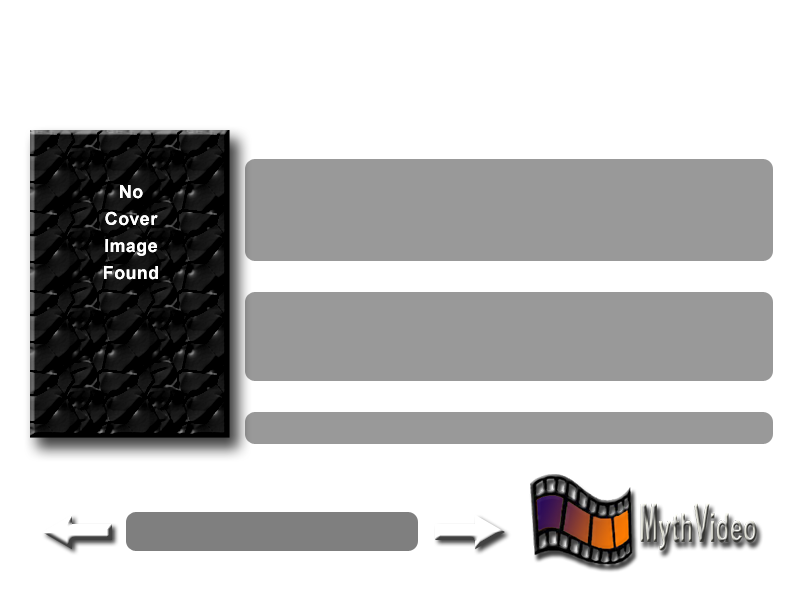
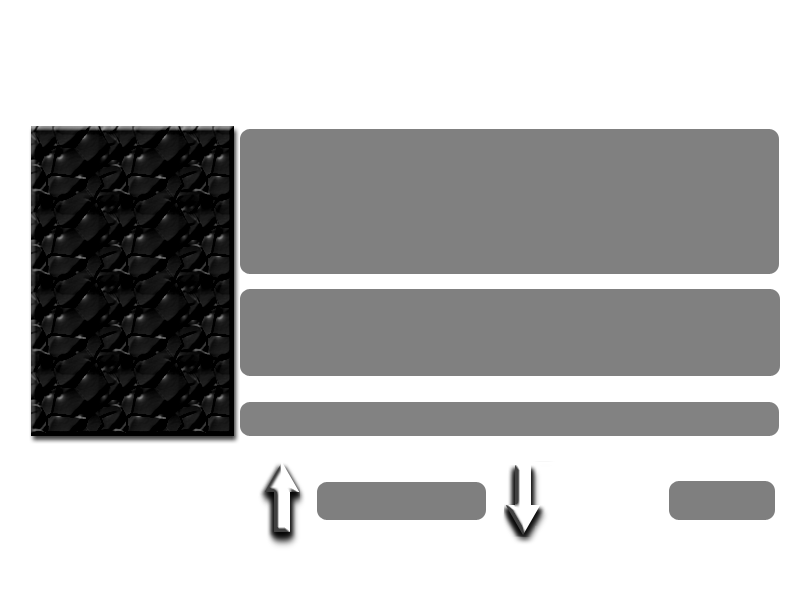
Minor UI tweaks: 	Two lines are now allowed for he title and it is aligned using "hcenter". 	The "plot" section has been expanded to allow for longer descriptions. 	A background has been added for the parental level similar to the existing ones. 	Labels for "plot" and "rating" have been removed sinc
Navigation is now done with the Up/Down arrow keys and Page Up/Down.

Changing the parental level is now done via the INCPARENTAL and DECPARENTAL keys (the same ones from the video manager).  These keys default to left/right arrow keys.  If the INC/DEC keys are remapped to something else, the left/right arrow keys will function much like they do in the playback box and video manager.

Added a popup menu accessable via "MENU".

Fixed the display of special characters in the title, director and descrption fields.  However:  There appears to be an issue with the imdb.pl script in that doesn't seem to decode these characters properly.

Screenshots are available at:

http://www.jdonavan.net/myth/screens/new_vid_ui1.jpg
http://www.jdonavan.net/myth/screens/new_vid_ui2.jpg

git-svn-id: http://svn.mythtv.org/svn/trunk@3655 7dbf422c-18fa-0310-86e9-fd20926502f2

diff --git a/mythplugins/mythvideo/mythvideo/videobrowser.cpp b/mythplugins/mythvideo/mythvideo/videobrowser.cpp
@@ -30,6 +30,9 @@ VideoBrowser::VideoBrowser(QSqlDatabase *ldb,
     currentVideoFilter = new VideoFilterSettings(db);
     RefreshMovieList();
 
+    popup = NULL;
+    expectingPopup = false;
+
     noUpdate = false;
     m_state = 0;
 
@@ -57,7 +60,7 @@ VideoBrowser::VideoBrowser(QSqlDatabase *ldb,
 VideoBrowser::~VideoBrowser()
 {
     if (currentVideoFilter)
-	delete currentVideoFilter;
+        delete currentVideoFilter;
     delete theme;
     delete bgTransBackup;
     if (curitem)
@@ -175,57 +178,129 @@ void VideoBrowser::keyPressEvent(QKeyEvent *e)
         QString action = actions[i];
         handled = true;
 
-        if (action == "SELECT" && allowselect)
-        {
+        if ((action == "SELECT" || action == "PLAY") && allowselect)
             selected(curitem);
-            return;
-        }
+        else if (action == "MENU")
+            doMenu();
         else if (action == "UP")
-            cursorUp();
+            jumpSelection(1);
         else if (action == "DOWN")
-            cursorDown();
+            jumpSelection(-1);
+        else if (action == "PAGEDOWN")
+            jumpSelection(0-(int)(m_list.count() / 5));
+        else if (action == "PAGEUP")
+            jumpSelection((int)(m_list.count() / 5));
+        else if (action == "INCPARENT")
+            doParental(1);
+        else if (action == "DECPARENT")
+            doParental(-1);            
         else if (action == "LEFT")
             cursorLeft();
         else if (action == "RIGHT")
             cursorRight();
-        else if (action == "1" || action == "2" || action == "3" ||
-                 action == "4")
-        {
+        else if (action == "1" || action == "2" || action == "3" || action == "4")
             setParentalLevel(action.toInt());
-        }
-	else if (action == "FILTER"){
-		VideoFilterDialog * vfd = new VideoFilterDialog(db,
-			currentVideoFilter,
-			gContext->GetMainWindow(),
-			"filter",
-			"video-",
-			"Video Filter Dialog");
-		vfd->exec();
-		delete vfd;
-		RefreshMovieList();
-		SetCurrentItem();
-		repaint();
-	}else if (action == "INFO"){
-		if (curitem){
-			MythPopupBox * plotbox
-			   = new MythPopupBox(gContext->GetMainWindow());
-			QLabel *plotLabel = plotbox->addLabel(curitem->Plot(),MythPopupBox::Small,true);
-			plotLabel->setAlignment(Qt::AlignJustify | Qt::WordBreak);
-			QButton * okButton = plotbox->addButton(tr("Ok"));
-			okButton->setFocus();
-			plotbox->ExecPopup();
-		//	plotbox->showOkPopup(gContext->GetMainWindow(),
-//				"test",
-//				curitem->Plot());
-			delete plotbox;
-		}
-	}
+        else if (action == "FILTER")
+            slotDoFilter();
+        else if (action == "INFO")
+            slotViewPlot();
         else
             handled = false;
     }
 
     if (!handled)
         MythDialog::keyPressEvent(e);
+}
+
+void VideoBrowser::doMenu()
+{
+    popup = new MythPopupBox(gContext->GetMainWindow(), "video popup");
+
+    expectingPopup = true;
+
+    popup->addLabel(tr("Select action"));
+    popup->addLabel("");
+
+    QButton *viewButton = popup->addButton(tr("Watch This Video"), this, SLOT(slotWatchVideo())); 
+
+    popup->addButton(tr("View Full Plot"), this, SLOT(slotViewPlot()));
+    popup->addButton(tr("Filter Display"), this, SLOT(slotDoFilter()));
+    popup->addButton(tr("Switch to Video Listings"), this, SLOT(slotVideoTree()));    
+
+    popup->ShowPopup(this, SLOT(slotDoCancel()));
+
+    viewButton->setFocus();
+
+}
+
+void VideoBrowser::slotVideoTree()
+{
+    cancelPopup();
+    gContext->GetMainWindow()->JumpTo("Video Listings");
+}
+
+void VideoBrowser::slotWatchVideo()
+{
+    cancelPopup();
+    selected(curitem);
+}
+
+void VideoBrowser::slotViewPlot()
+{
+    cancelPopup();
+    
+    if (curitem)
+    {
+        MythPopupBox * plotbox = new MythPopupBox(gContext->GetMainWindow());
+        QLabel *plotLabel = plotbox->addLabel(curitem->Plot(),MythPopupBox::Small,true);
+        plotLabel->setAlignment(Qt::AlignJustify | Qt::WordBreak);
+        QButton * okButton = plotbox->addButton(tr("Ok"));
+        okButton->setFocus();
+        plotbox->ExecPopup();
+        delete plotbox;
+    }
+}
+
+void VideoBrowser::slotDoFilter()
+{
+    cancelPopup();
+    VideoFilterDialog * vfd = new VideoFilterDialog(db, currentVideoFilter,
+                                                    gContext->GetMainWindow(),
+                                                    "filter", "video-",
+                                                    "Video Filter Dialog");
+    vfd->exec();
+    delete vfd;
+
+    RefreshMovieList();
+    SetCurrentItem();
+    repaint();
+
+}
+
+
+void VideoBrowser::slotDoCancel(void)
+{
+    if (!expectingPopup)
+        return;
+
+    cancelPopup();
+}
+
+void VideoBrowser::cancelPopup(void)
+{
+    expectingPopup = false;
+
+    if(popup)
+    {
+        popup->hide();
+        delete popup;
+
+        popup = NULL;
+
+        update(fullRect);
+        qApp->processEvents();
+        setActiveWindow();
+    }
 }
 
 void VideoBrowser::updateBackground(void)
@@ -253,10 +328,10 @@ void VideoBrowser::RefreshMovieList()
     m_list.clear();
 
     QString thequery = QString("SELECT intid, browse FROM %1 %2 %3")
-		.arg(currentVideoFilter->BuildClauseFrom())
-		.arg(currentVideoFilter->BuildClauseWhere())
-		.arg(currentVideoFilter->BuildClauseOrderBy());
-//cout << thequery << endl;
+                        .arg(currentVideoFilter->BuildClauseFrom())
+                        .arg(currentVideoFilter->BuildClauseWhere())
+                        .arg(currentVideoFilter->BuildClauseOrderBy());
+
     QSqlQuery query(thequery,db);
     Metadata *myData;
 
@@ -498,7 +573,7 @@ void VideoBrowser::updateInfo(QPainter *p)
        {
            UITextType *type = (UITextType *)container->GetType("title");
            if (type)
-               type->SetText(title);
+               type->SetText(QString::fromUtf8(title));
 
            type = (UITextType *)container->GetType("filename");
            if (type)
@@ -506,7 +581,7 @@ void VideoBrowser::updateInfo(QPainter *p)
 
            type = (UITextType *)container->GetType("director");
            if (type)
-               type->SetText(director);
+               type->SetText(QString::fromUtf8(director));
  
            type = (UITextType *)container->GetType("year");
            if (type)
@@ -529,7 +604,7 @@ void VideoBrowser::updateInfo(QPainter *p)
 
            type = (UITextType *)container->GetType("plot");
            if (type)
-               type->SetText(plot);
+               type->SetText(QString::fromUtf8(plot));
  
            type = (UITextType *)container->GetType("userrating");
            if (type)
@@ -597,8 +672,12 @@ void VideoBrowser::LoadWindow(QDomElement &element)
             }
             else
             {
+                MythPopupBox::showOkPopup(gContext->GetMainWindow(), "",
+                                          tr(QString("There is a problem with your"
+                                          "music-ui.xml file... Unknown element: %1").
+                                          arg(e.tagName())));
+                
                 cerr << "Unknown element: " << e.tagName() << endl;
-                exit(0);
             }
         }
     }
@@ -616,7 +695,21 @@ void VideoBrowser::parseContainer(QDomElement &element)
     if (name.lower() == "browsing")
         browsingRect = area;
 }
- 
+
+void VideoBrowser::jumpSelection(int amount)
+{
+    inData += amount;
+     
+    if (inData < 0)
+        inData = m_list.count() - abs(1 - inData);
+    else if(inData >= (int)m_list.count())
+        inData = inData - m_list.count();
+     
+    SetCurrentItem();
+    update(infoRect);
+    update(browsingRect);
+}
+   
 void VideoBrowser::exitWin()
 {
     emit accept();
@@ -624,42 +717,23 @@ void VideoBrowser::exitWin()
 
 void VideoBrowser::cursorLeft()
 {
-     inData--;
-     if (inData < 0)
-         inData = m_list.count() - 1;
-     SetCurrentItem();
-     update(infoRect);
-     update(browsingRect);
+    exitWin();
 }
 
 void VideoBrowser::cursorRight()
 {
-     inData++;
-     if (inData >= (int)m_list.count())
-         inData = 0;
-     SetCurrentItem();
-     update(infoRect);
-     update(browsingRect);
+    doMenu();
 }
 
-void VideoBrowser::cursorUp()
+void VideoBrowser::doParental(int amount)
 {
-    setParentalLevel(currentParentalLevel + 1);
+    setParentalLevel(currentParentalLevel + amount);
     inData = 0;
     RefreshMovieList();
     SetCurrentItem();
     update(infoRect);
     update(browsingRect);
-}
 
-void VideoBrowser::cursorDown()
-{
-    setParentalLevel(currentParentalLevel - 1);
-    inData = 0;
-    RefreshMovieList();
-    SetCurrentItem();
-    update(infoRect);
-    update(browsingRect);
 }
 
 void VideoBrowser::selected(Metadata *someItem)

diff --git a/mythplugins/mythvideo/mythvideo/videobrowser.h b/mythplugins/mythvideo/mythvideo/videobrowser.h
@@ -30,17 +30,24 @@ class VideoBrowser : public MythDialog
     void selected(Metadata *someItem);
     void cursorLeft();
     void cursorRight();
-    void cursorDown();
-    void cursorUp();
     void exitWin();
     void setParentalLevel(int which_level);
     bool checkParentPassword();
 
+    void slotWatchVideo();
+    void slotViewPlot();
+    void slotDoFilter();
+    void slotDoCancel();
+    void slotVideoTree();
+
   protected:
     void paintEvent(QPaintEvent *);
     void keyPressEvent(QKeyEvent *e);
-
+    void cancelPopup(void);
+    void doMenu(void);
   private:
+    MythPopupBox* popup;
+    bool expectingPopup;
     bool updateML;
     bool noUpdate;
     VideoFilterSettings	*currentVideoFilter;
@@ -54,9 +61,12 @@ class VideoBrowser : public MythDialog
     XMLParse *theme;
     QDomElement xmldata;
 
+    void doParental(int amount);
+    void jumpSelection(int amount);
     int currentParentalLevel;
     void RefreshMovieList();
     void SetCurrentItem();
+    
 
     void updateBackground(void);
     void updateInfo(QPainter *);
@@ -82,6 +92,7 @@ class VideoBrowser : public MythDialog
     QRect browsingRect;
     QRect fullRect;
 
+    
     bool allowselect;
 };
 
